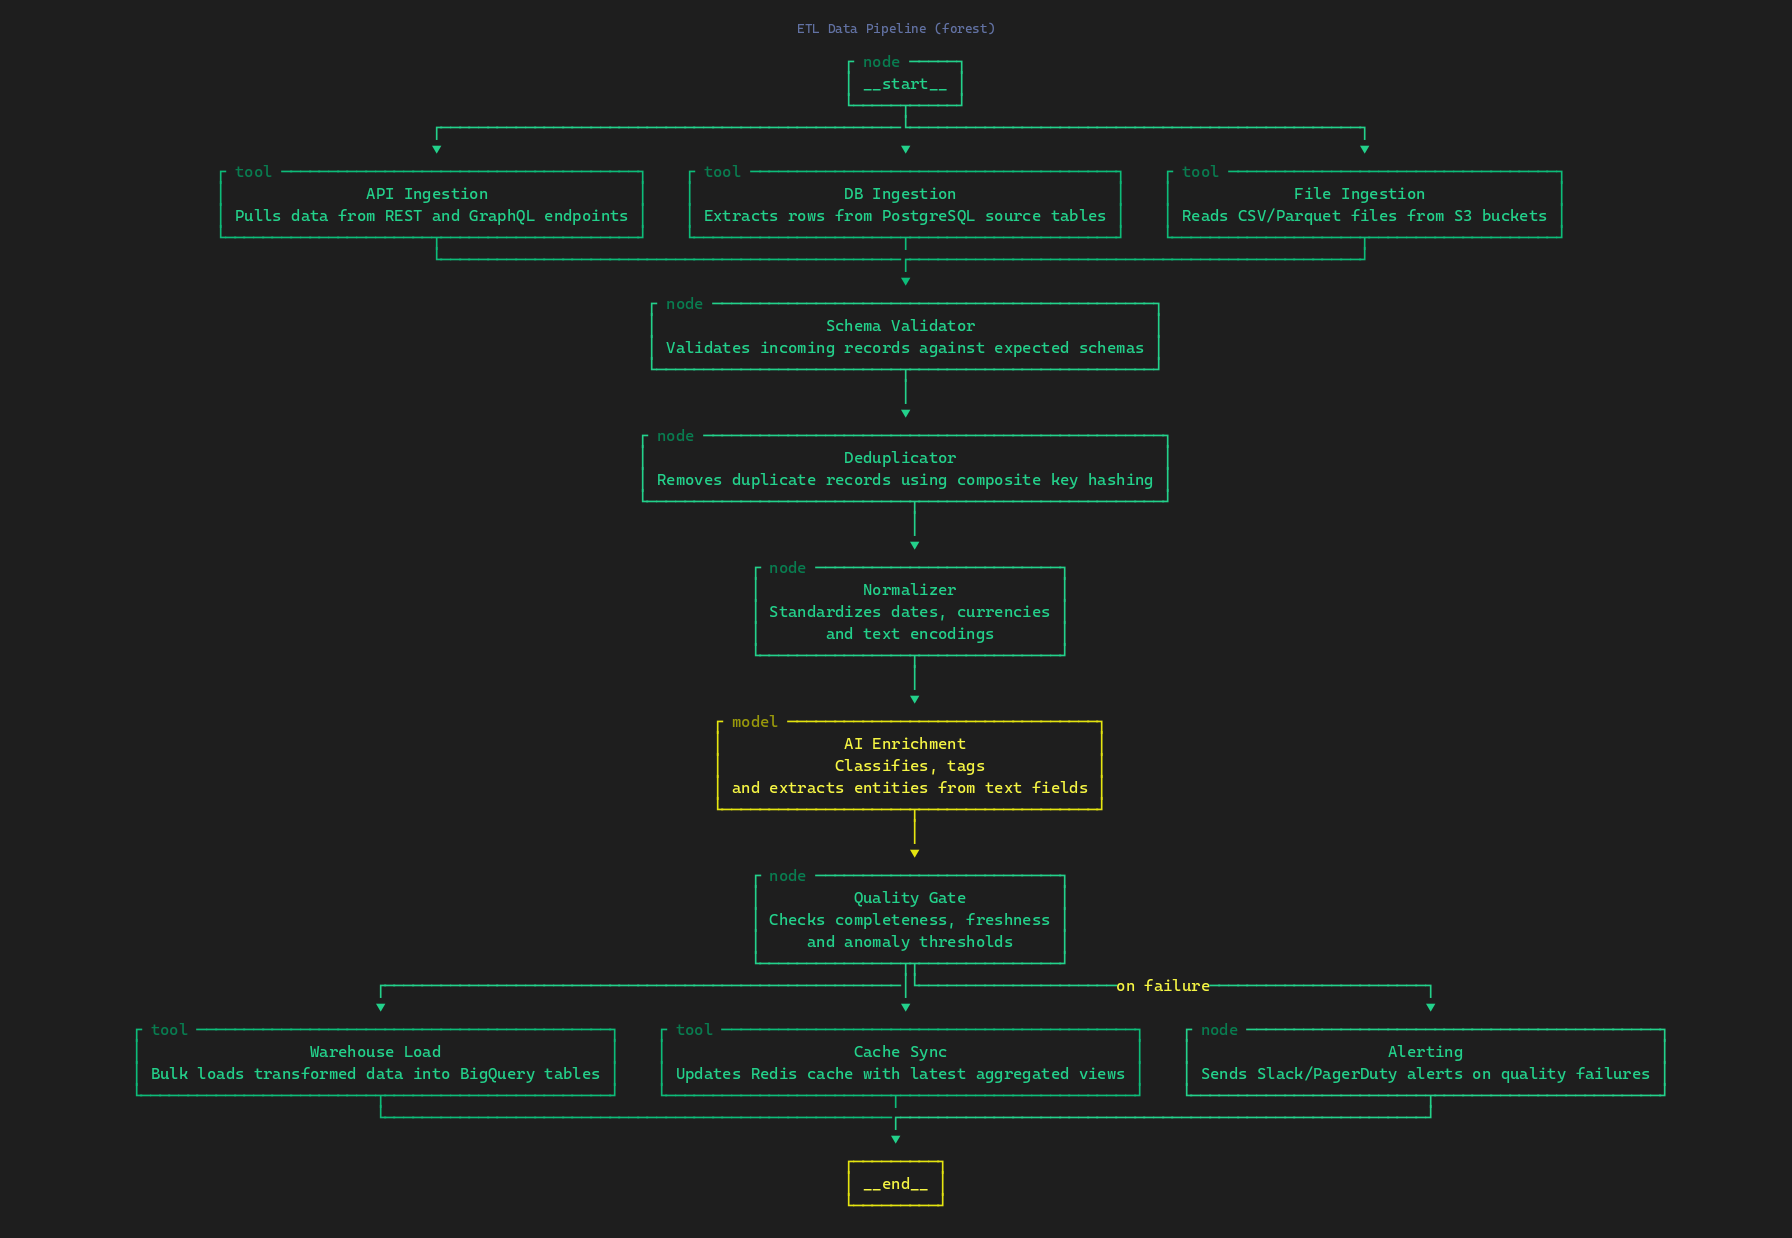
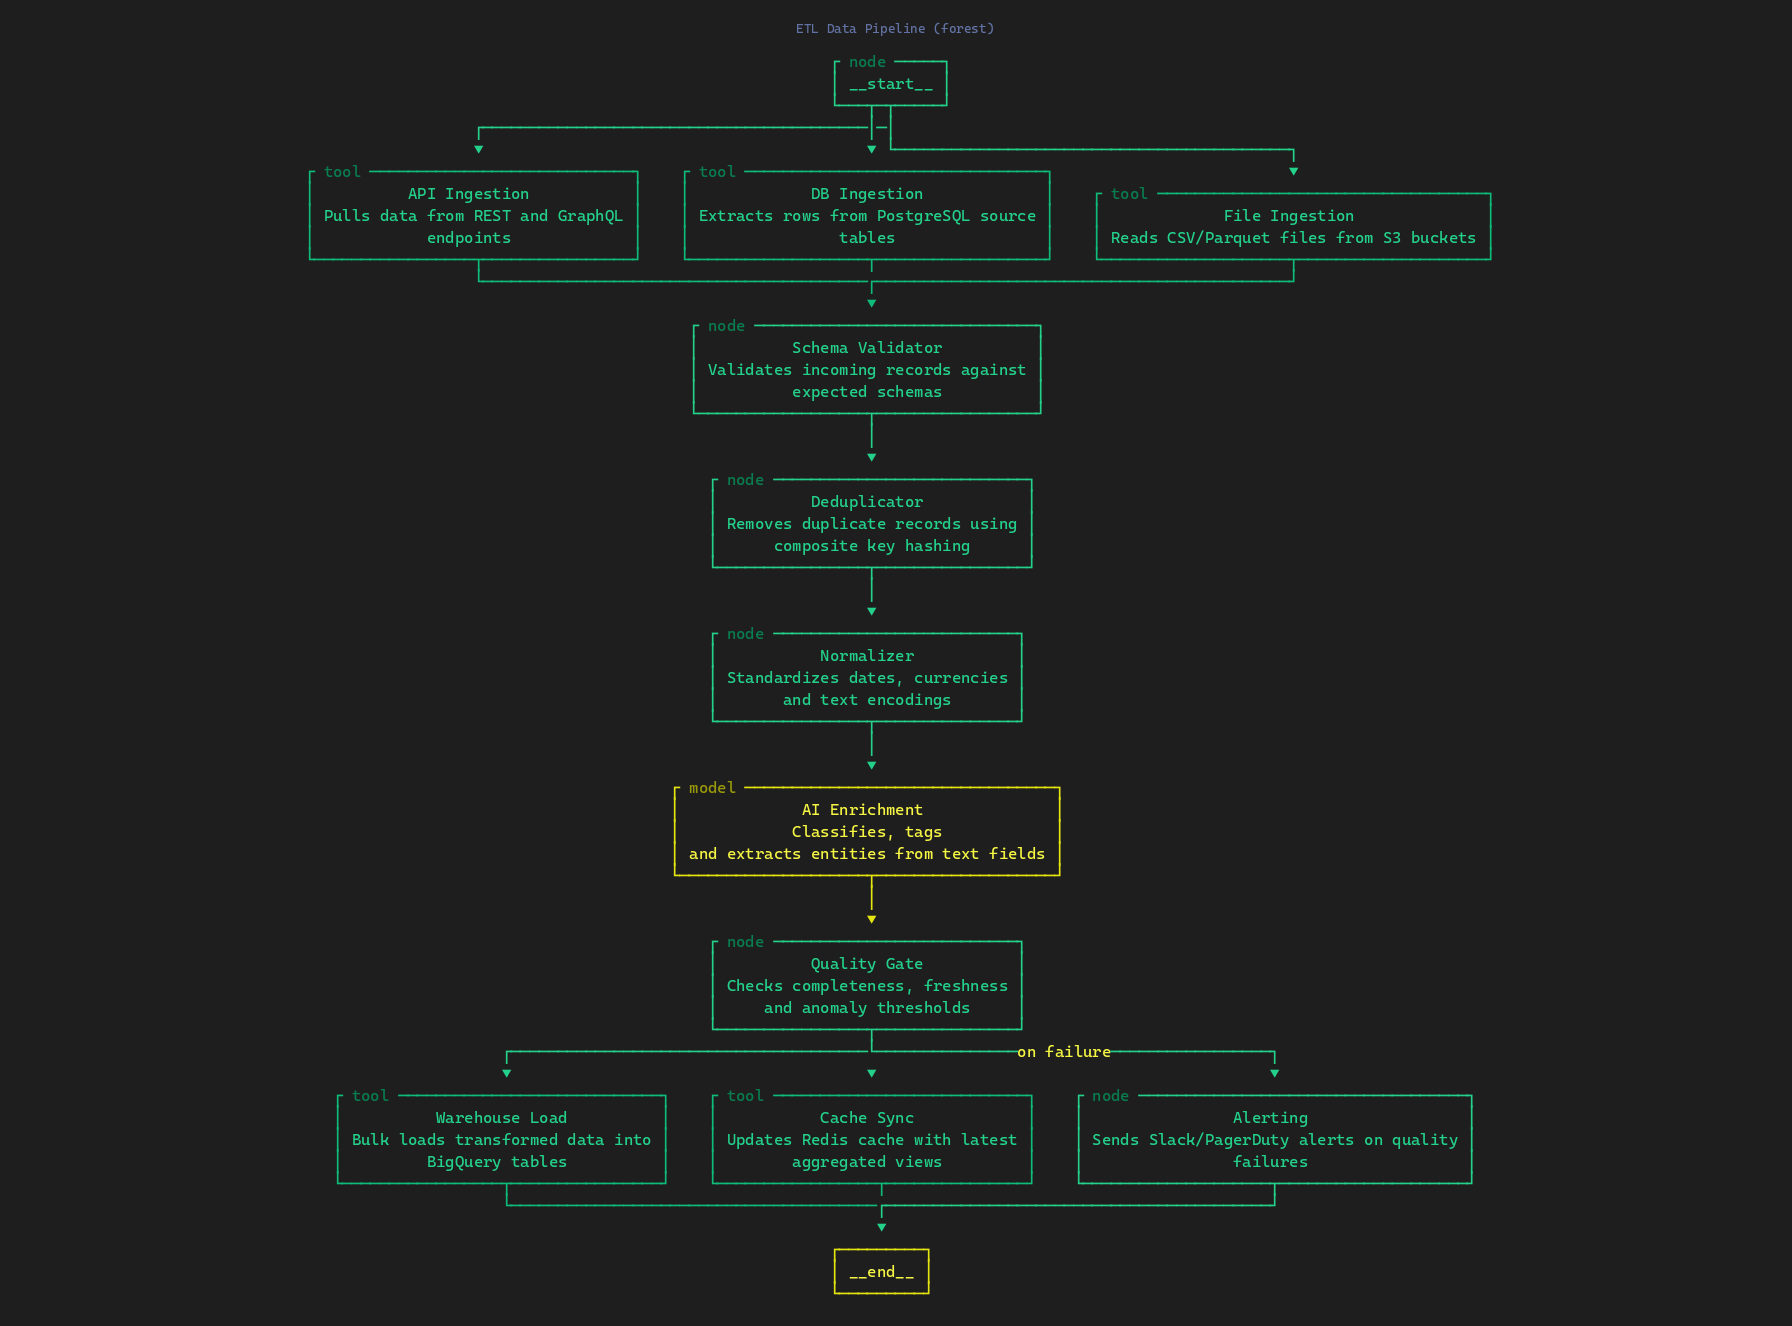
fix(renderer): use local corridor routing for backward edges
Backward edges now route to the right of only the boxes that vertically
overlap with the edge path, instead of routing past every box in the
graph. This keeps corridors close to the connected nodes, especially in
wide graphs like rag-pipeline where distant layers inflated the corridor.

Changed region(s): [[0.0625, 0.706, 0.9375, 0.9822], [0.1562, 0.0, 0.875, 0.2149], [0.375, 0.2456, 0.6562, 0.6753]]

diff --git a/src/graphtty/renderer.py b/src/graphtty/renderer.py
@@ -451,8 +451,8 @@ def _backward_edge_corridors(
     Returns ``(corridor_map, margin)`` where *corridor_map* maps edge index
     to a global route_x value and *margin* is the extra right-side space needed.
 
-    All backward edges route to the right of **every** box in the graph so
-    they never cut through other nodes (e.g. subgraph boxes).
+    Each backward edge routes to the right of boxes that vertically overlap
+    with the edge's path, so corridors stay close to the connected nodes.
     """
     global_max_right = max((b.x + b.w for b in boxes.values()), default=0)
     corridor_map: dict[int, int] = {}
@@ -463,9 +463,25 @@ def _backward_edge_corridors(
         if src is None or tgt is None:
             continue
         if tgt.bottom < src.top:
-            corridor_map[idx] = global_max_right + 3 + slot * 3
+            # Only clear boxes whose y-range overlaps the edge path
+            src_mid_y = src.y + src.h // 2
+            tgt_mid_y = tgt.y + tgt.h // 2
+            y_min = min(src_mid_y, tgt_mid_y)
+            y_max = max(src_mid_y, tgt_mid_y)
+
+            local_max_right = 0
+            for b in boxes.values():
+                if b.y < y_max and (b.y + b.h) > y_min:
+                    local_max_right = max(local_max_right, b.x + b.w)
+
+            corridor_map[idx] = local_max_right + 3 + slot * 3
             slot += 1
-    margin = (3 + slot * 3) if slot else 0
+
+    if not corridor_map:
+        return corridor_map, 0
+
+    max_route_x = max(corridor_map.values())
+    margin = max(0, max_route_x - global_max_right + 3)
     return corridor_map, margin
 
 
